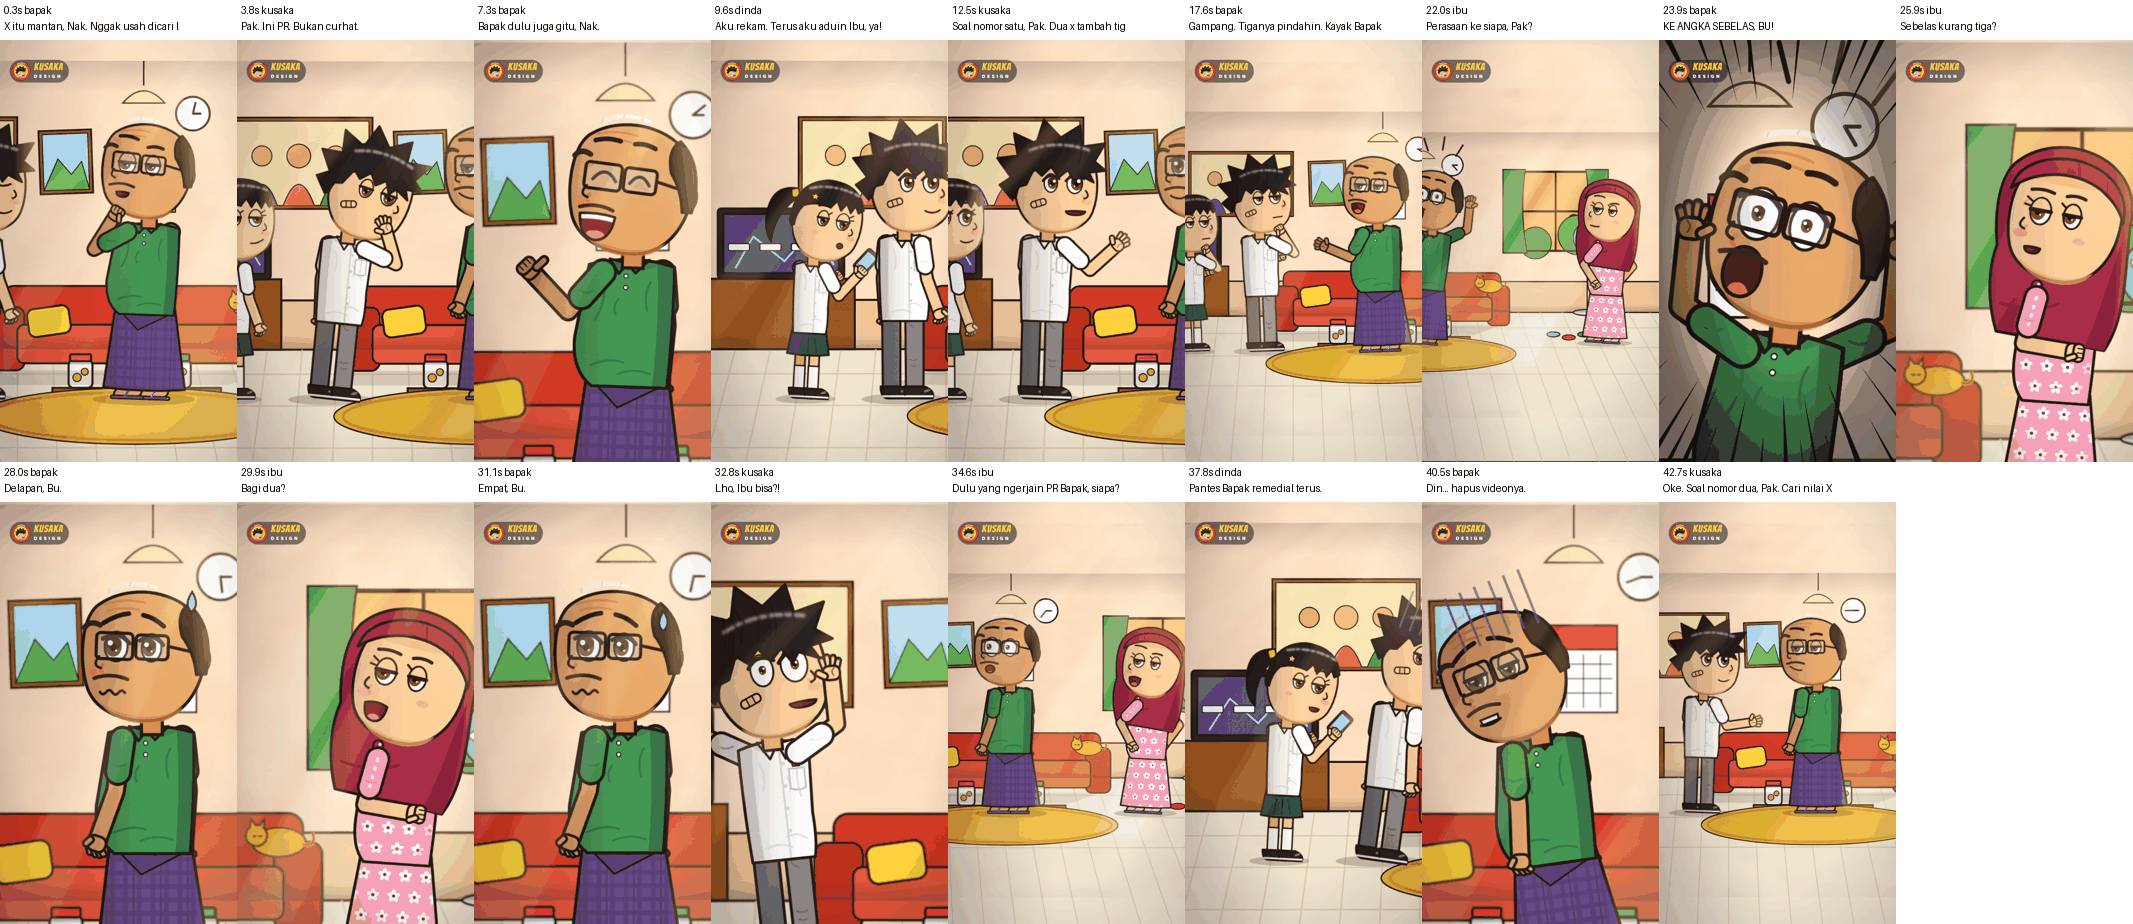
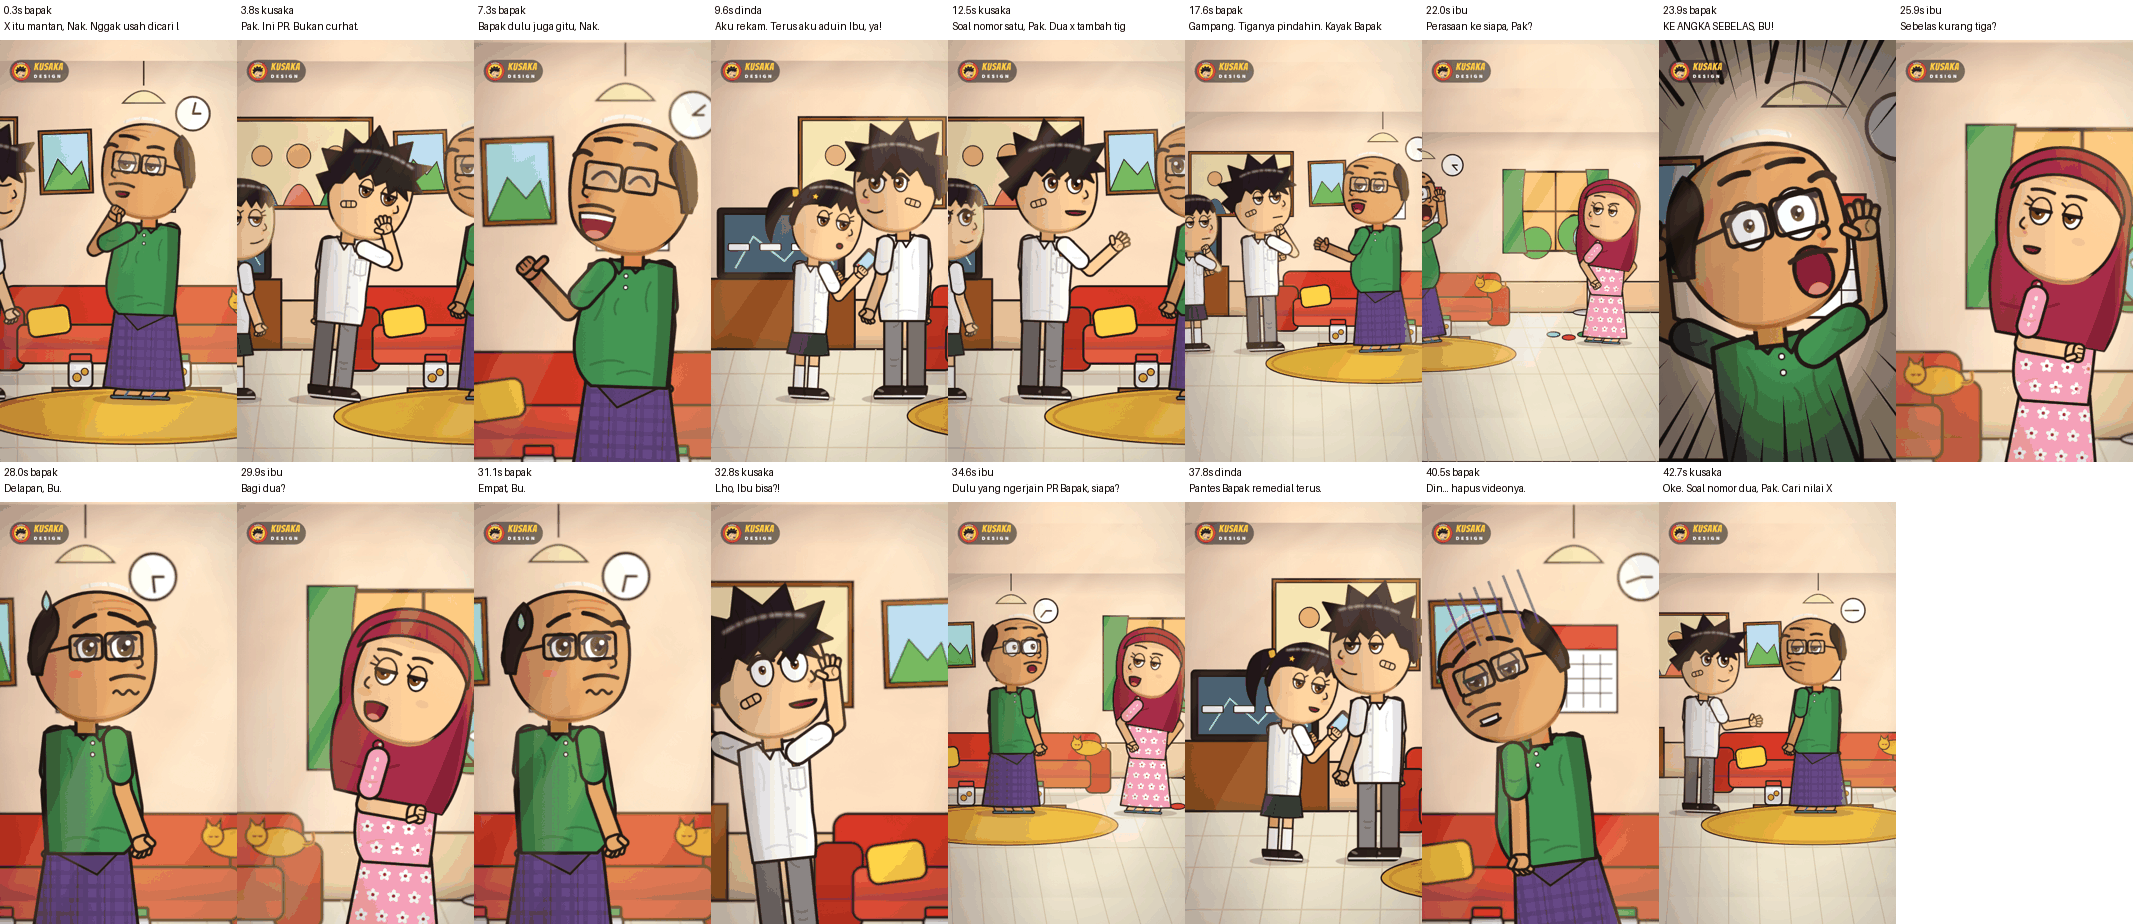
fix: larangan membelakangi lawan bicara — arah hadap otomatis per baris
- src/edit/facing.ts: pembicara menghadap lawan bicara ("to" → sapaan di
  teks → pembicara sebelumnya), pendengar menghadap pembicara; yang sedang
  berjalan tetap menghadap arah jalan.
- Shorts 04 l016: emosi pendengar smug (hanya Bapak lesu lewat reactions),
  wajah Dinda tidak tertutup Kusaka. Storyboard diperbarui.
- Aturan 12 di CLAUDE.md + Series Bible + skill. Berlaku ke depan; video
  yang sudah dirilis / sedang dirender tidak diubah.

Claude-Session: https://claude.ai/code/session_01K7dcc3RF634vvWxMhG1c2V

diff --git a/animasi-kusaka/src/edit/facing.ts b/animasi-kusaka/src/edit/facing.ts
@@ -1,0 +1,58 @@
+/* ATURAN PEMILIK (WAJIB): saat bercakap, tidak ada yang membelakangi lawan bicara.
+ *  - Pembicara menghadap lawan bicaranya (addressee).
+ *  - Semua pendengar yang ada di panggung menghadap pembicara.
+ *  - Orang yang sedang berjalan tetap menghadap arah jalannya.
+ * Lawan bicara dipilih berurutan: (1) "to" di baris naskah, (2) sapaan di teks (nama / Pak / Bu / Kak / Jang / Din ...),
+ * (3) pembicara sebelumnya yang berbeda, (4) pembicara berikutnya yang berbeda.
+ * Modul ini tanpa import supaya bisa dipakai renderer DAN skrip audit. */
+
+export interface FLine { id: string; scene: string; speaker: string; text: string; start: number; offscreen?: boolean; to?: string }
+
+/** Sapaan → id karakter. Sapaan umum (Pak/Bu/Kak) hanya dipakai bila tepat satu kandidat ada di adegan. */
+const NAMED: [RegExp, string][] = [
+  [/\bkusaka\b/i, "kusaka"], [/\b(ujang|jang)\b/i, "ujang"], [/\bnadia\b/i, "nadia"], [/\b(dinda|din)\b/i, "dinda"],
+  [/\bpak darto\b/i, "pakDarto"], [/\bbu ijah\b/i, "buIjah"], [/\bbimo\b/i, "bimo"], [/\bsasa\b/i, "sasa"],
+  [/\bbu wati\b/i, "buWati"], [/\bpak joko\b/i, "pakJoko"], [/\bmang( udin)?\b/i, "mangUdin"], [/\b(ucok|cok)\b/i, "ucok"],
+  [/\braka\b/i, "raka"], [/\bkak tara\b/i, "tara"],
+  // panggilan keluarga (dicek setelah nama): "Ibu", "Bapak"
+  [/\bibu\b/i, "ibu"], [/\bbapak\b/i, "bapak"],
+];
+const GENERIC: [RegExp, string[]][] = [
+  [/\bpak\b/i, ["bapak", "pakDarto", "pakJoko"]],
+  [/\bbu\b/i, ["ibu", "buWati", "buIjah"]],
+  [/\bkak\b/i, ["kusaka", "tara"]],
+];
+
+export function addresseeOf(line: FLine, sceneLines: FLine[], onStage: (c: string) => boolean): string | null {
+  const ok = (c: string | undefined | null) => !!c && c !== line.speaker && onStage(c);
+  if (ok(line.to)) return line.to!;
+  for (const [re, id] of NAMED) if (re.test(line.text) && ok(id)) return id;
+  for (const [re, ids] of GENERIC) {
+    if (!re.test(line.text)) continue;
+    const cands = ids.filter(ok);
+    if (cands.length === 1) return cands[0];
+  }
+  const i = sceneLines.indexOf(line);
+  for (let k = i - 1; k >= 0; k--) if (ok(sceneLines[k].speaker)) return sceneLines[k].speaker;
+  for (let k = i + 1; k < sceneLines.length; k++) if (ok(sceneLines[k].speaker)) return sceneLines[k].speaker;
+  return null;
+}
+
+/** Baris yang sedang berlangsung di adegan pada waktu t (baris terakhir yang sudah mulai; sebelum baris pertama = baris pertama). */
+export function activeLine(sceneLines: FLine[], t: number): FLine | null {
+  let cur: FLine | null = sceneLines[0] ?? null;
+  for (const l of sceneLines) { if (l.start <= t) cur = l; else break; }
+  return cur;
+}
+
+/** Arah hadap percakapan untuk karakter c, atau null bila aturan tidak berlaku (tetap pakai arah dasar). */
+export function conversationFacing(
+  c: string, line: FLine | null, sceneLines: FLine[], xOf: (id: string) => number, onStage: (id: string) => boolean,
+): 1 | -1 | null {
+  if (!line || line.offscreen || !onStage(line.speaker)) return null;
+  const target = c === line.speaker ? addresseeOf(line, sceneLines, onStage) : line.speaker;
+  if (!target) return null;
+  const dx = xOf(target) - xOf(c);
+  if (Math.abs(dx) < 1) return null;
+  return dx > 0 ? 1 : -1;
+}

diff --git a/animasi-kusaka/src/Video.tsx b/animasi-kusaka/src/Video.tsx
@@ -9,6 +9,7 @@ import { CharLightDefs, LightDef, ScreenLight, SetLight } from "./fx/Lighting";
 import { DETAILS } from "./scene/Details";
 import { DETAILS2 } from "./scene/Details2";
 import { Extras } from "./scene/Extras";
+import { FLine, activeLine, conversationFacing } from "./edit/facing";
 import sfxLib from "./audio/sfx.json";
 import editing from "./edit/editing.json";
 import { CharId, END_OF_DIALOG, FPS, LINES, Line, SCENES, Scene, beatAt, SUBTITLES } from "./lib/timeline";
@@ -22,7 +23,7 @@ const WALK_SPEED: number = editing.camera.walkSpeed;
 const markX = (sc: Scene, m: string) => OFF[m] ?? metaOf(sc).marks[m as keyof ReturnType<typeof metaOf>["marks"]];
 let NOW = 0;
 /** Position of a character at time NOW: start mark, then every `move` of this scene in order. */
-const posOf = (sc: Scene, c: CharId): { x: number; facing: 1 | -1; walk?: number } => {
+const posRaw = (sc: Scene, c: CharId): { x: number; facing: 1 | -1; walk?: number } => {
   let x = markX(sc, sc.cast[c].mark), facing = sc.cast[c].facing;
   const first = LINES.find((l) => l.scene === sc.id && (l as Line & { move?: Move }).move?.who === c) as (Line & { move?: Move }) | undefined;
   if (first?.move?.from) x = markX(sc, first.move.from);
@@ -37,6 +38,20 @@ const posOf = (sc: Scene, c: CharId): { x: number; facing: 1 | -1; walk?: number
     x = to; facing = mv.face ?? dir;
   }
   return { x, facing };
+};
+/* Belum masuk panggung: karakter yang masuk lewat offL/offR sebelum langkah pertamanya dimulai. */
+const notEntered = (sc: Scene, c: CharId) => {
+  const first = LINES.find((l) => l.scene === sc.id && (l as Line & { move?: Move }).move?.who === c) as (Line & { move?: Move }) | undefined;
+  return !!first?.move?.from && OFF[first.move.from] !== undefined && NOW < first.start + (first.move.at ?? 0);
+};
+/** Posisi + arah hadap. ATURAN: saat bercakap tidak ada yang membelakangi lawan bicara (src/edit/facing.ts). */
+const posOf = (sc: Scene, c: CharId): { x: number; facing: 1 | -1; walk?: number } => {
+  const p = posRaw(sc, c);
+  if (p.walk !== undefined) return p; // sedang berjalan: menghadap arah jalan
+  const sceneLines = LINES.filter((l) => l.scene === sc.id) as unknown as FLine[];
+  const onStage = (id: string) => !!sc.cast[id] && !notEntered(sc, id as CharId);
+  const f = conversationFacing(c, activeLine(sceneLines, NOW), sceneLines, (id) => posRaw(sc, id as CharId).x, onStage);
+  return f ? { ...p, facing: f } : p;
 };
 const faceOf = (sc: Scene, c: CharId) => ({ x: posOf(sc, c).x + 70 * posOf(sc, c).facing, y: metaOf(sc).floor - 468 - 130 });
 const otherOf = (sc: Scene, c: CharId) => castOf(sc).find((x) => x !== c) ?? c;

diff --git a/.claude/skills/kusaka-design/SKILL.md b/.claude/skills/kusaka-design/SKILL.md
@@ -68,6 +68,9 @@ Kamu ahli strategi Shorts: **riset dulu tiap Shorts** (WebSearch: sinyal algorit
     ] }] }
 ```
 - `shot`: tulis `two` agar dipilih otomatis; paksa dengan `wide` / `medium` / `close` / `crash` (crash maks 1 per adegan).
+- **Arah hadap otomatis (larangan membelakangi lawan bicara):** `cast.facing` hanya arah awal; tiap baris pembicara
+  menghadap lawan bicara, pendengar menghadap pembicara (`src/edit/facing.ts`). Lawan bicara ambigu → `"to": "ibu"`.
+  Emosi `listener` berlaku untuk SEMUA pendengar — pakai `reactions` untuk satu tokoh saja (pose slump/condong bisa menutupi wajah tetangga).
 - Opsional: `"camAt": "D"` (kamera diam di titik itu, karakter lewat), `"fg": "tree" | "pillar" | "plant"` (benda depan blur),
   `"move"` (jalan), `"caption"` (hanya dari whitelist), `"flashback": true`, `"offscreen": true` (shot two),
   `"reactions": { "ucok": ["surprised", "idle"] }`, `"sfx": [{ "id": "rimshot", "at": "end" }]` (`at` WAJIB: detik atau "end").

diff --git a/CLAUDE.md b/CLAUDE.md
@@ -29,5 +29,9 @@ Aturan dari pemilik proyek, WAJIB diikuti di setiap sesi:
     **dilarang memakai uang / mata uang (Rp)**. Aset di `animasi-kusaka/brand/` (`npm run brand`).
     **Watermark Shorts resmi = Contoh 5** (pil gelap transparan + Logo 2 + KUSAKA/DESIGN, kiri atas), hanya di Shorts.
 11. **Pratinjau hanya gambar** (storyboard/still). Video MP4 hanya dikirim kalau pemilik memintanya.
+12. **DILARANG membelakangi lawan bicara.** Saat bercakap, pembicara menghadap lawan bicaranya dan semua pendengar
+    menghadap pembicara. Diatur otomatis per baris oleh `src/edit/facing.ts` (lawan bicara: `"to"` di naskah → sapaan di
+    teks → pembicara sebelumnya). Jangan dimatikan. Cek di storyboard: tidak ada wajah yang tertutup kepala tokoh lain.
+    Berlaku untuk produksi ke depan (Shorts & episode). Video yang sudah dirilis atau sedang dirender tidak diganggu.
 
 Panduan cerita dan strategi: `animasi-kusaka/SERIES_BIBLE.md`.

diff --git a/animasi-kusaka/SERIES_BIBLE.md b/animasi-kusaka/SERIES_BIBLE.md
@@ -69,6 +69,8 @@ dan sampel suara di `public/voices/<id>.mp3`.
 ```
 
 ### Aturan karakter (WAJIB)
+0. **Tidak pernah membelakangi lawan bicara** (larangan pemilik): pembicara menghadap lawan bicara, pendengar menghadap
+   pembicara — otomatis per baris (`src/edit/facing.ts`). Kalau lawan bicara ambigu, tulis `"to": "<id>"` di baris naskah.
 1. **Desain dikunci kode** (`canon.json`): warna, proporsi, ciri khas, pakaian, aksesori. Tidak ada karakter
    yang tampil tanpa ciri khasnya.
 2. **Sifat tidak boleh dilanggar.** Ujang tidak panik duluan. Nadia tidak pernah bodoh. Pak Darto tidak jahat
